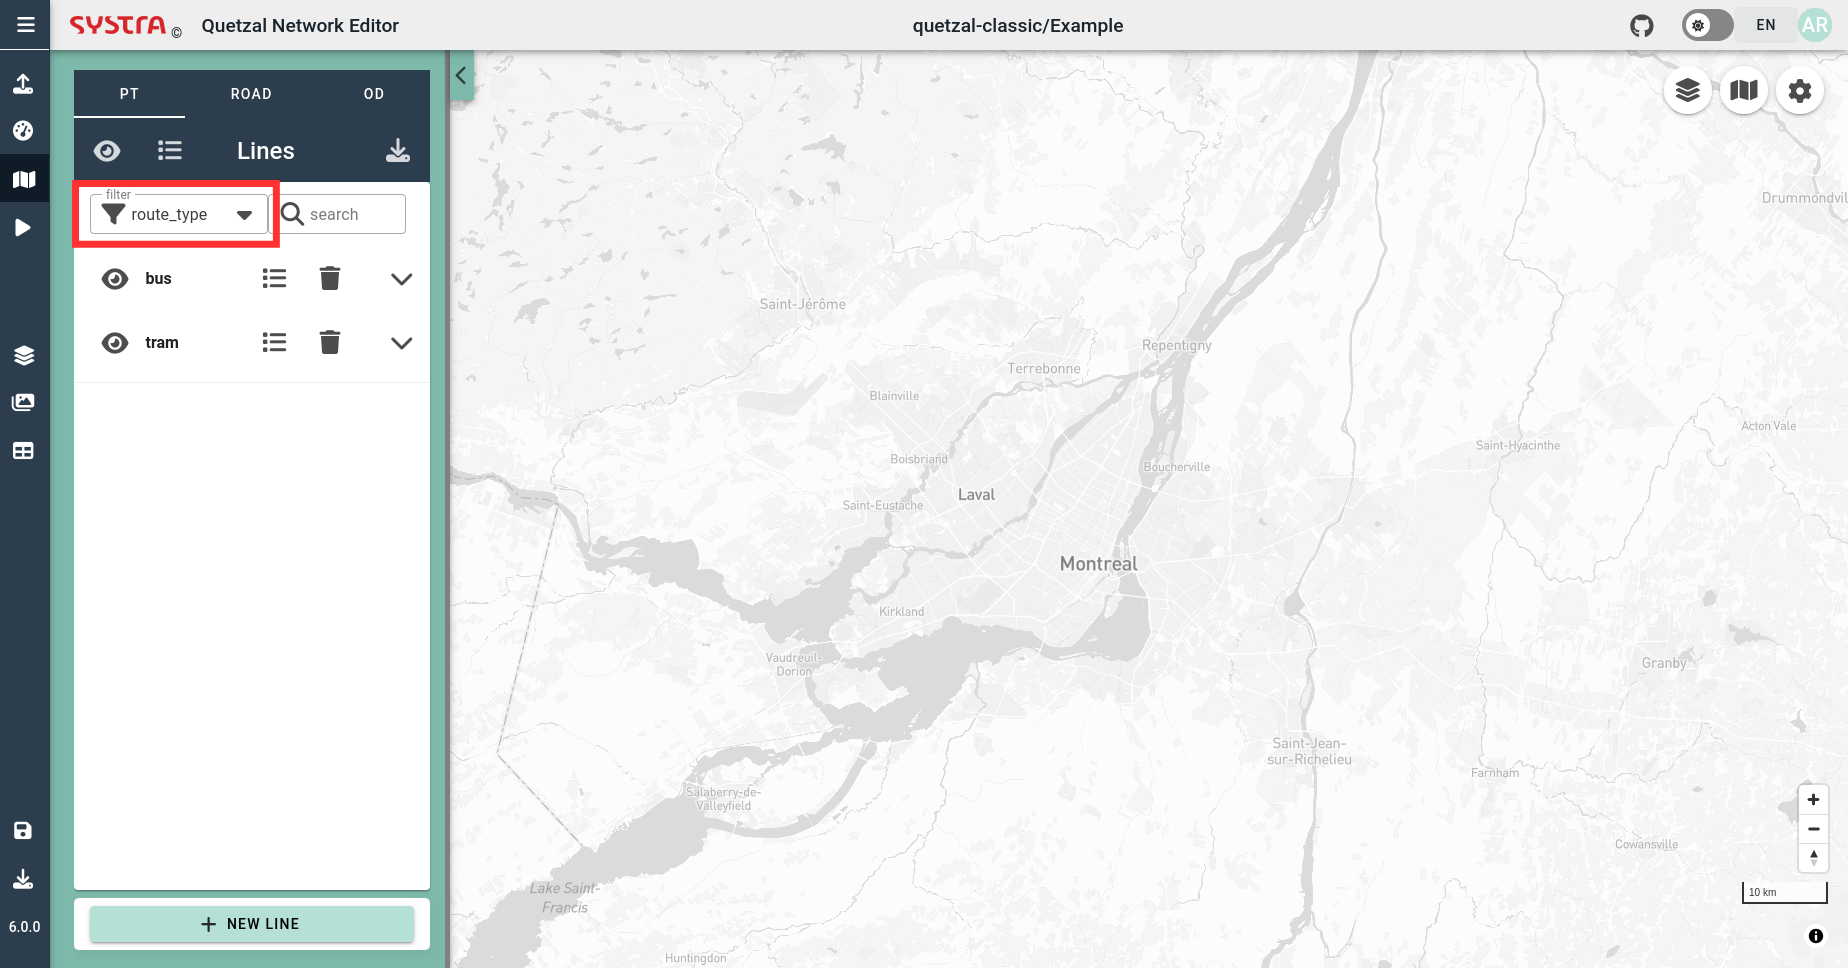
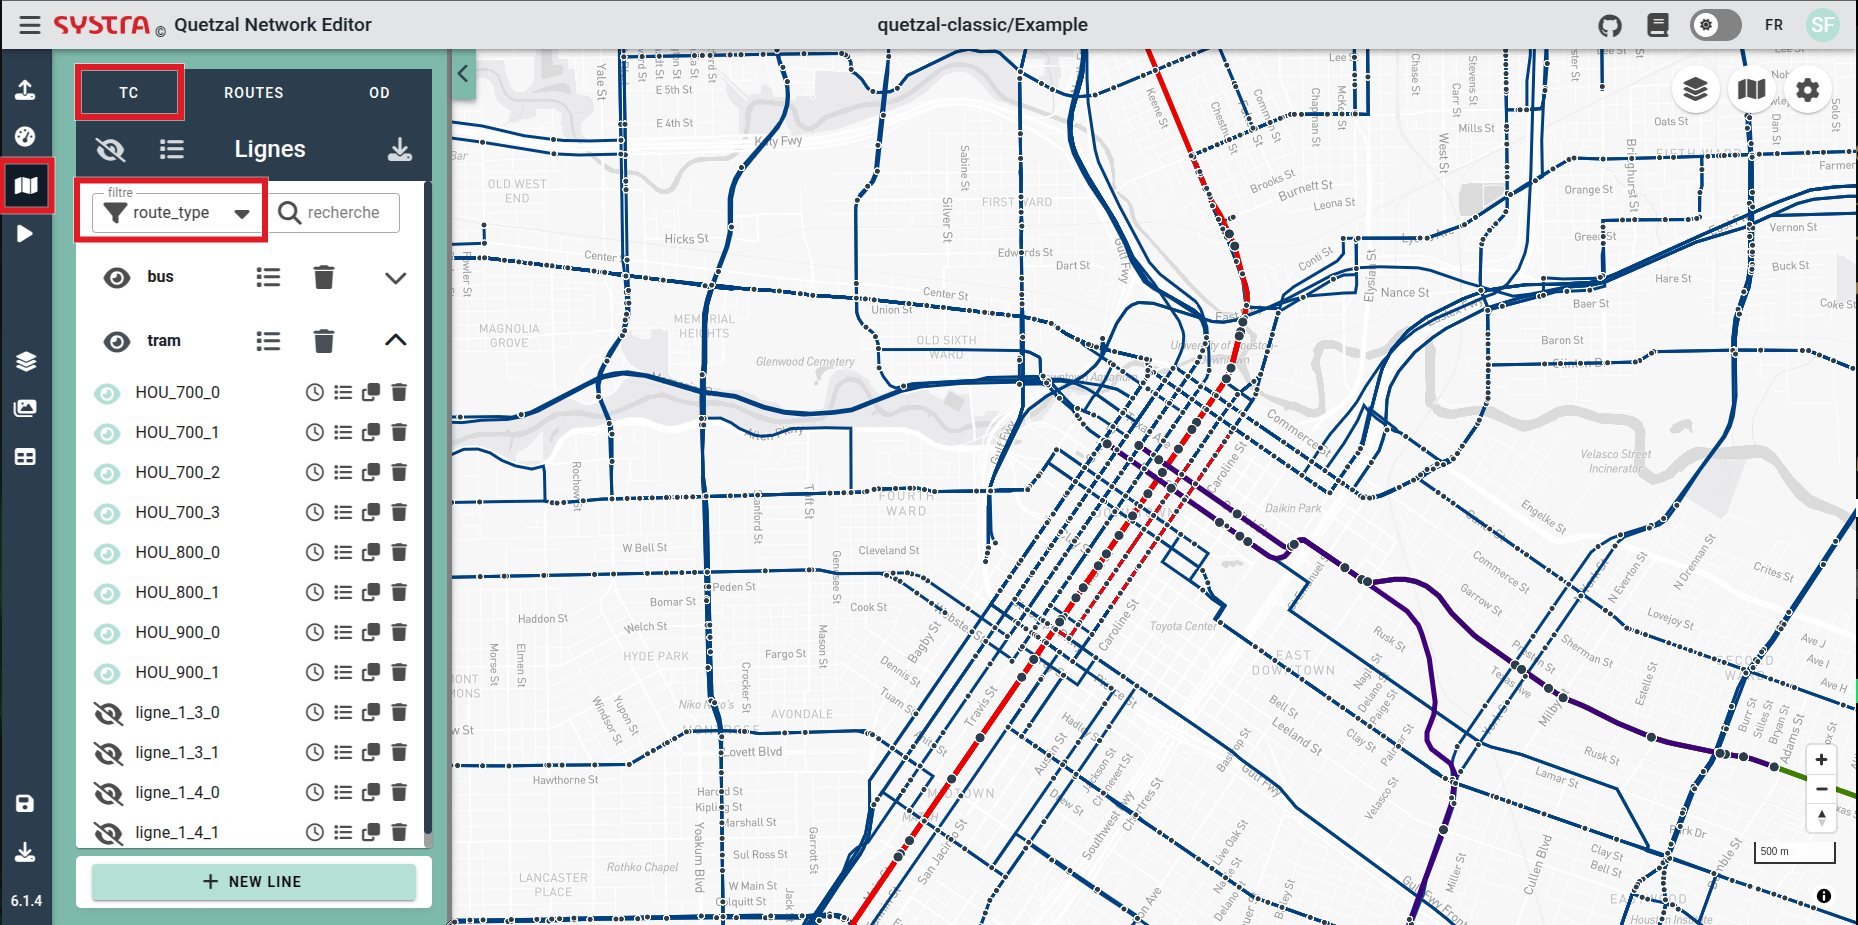
Update Public Transport Page, Add Scheduling

diff --git a/docs/howto/04_pt_network.md b/docs/howto/04_pt_network.md
@@ -1,23 +1,30 @@
-# Public transport network
+# Public Transport Network
 
 ## Overview
-Under the Maps tab, you can:
+
+Under the Map tab, you can view and edit the Public Transport (PT) network:
 
 - Filter by agency_id, route_type, trip_id, etc, ...
 
 ![Alt text](/networks_4.png)
 
-- Duplicate a link 
+::: tip 💡 TIP
+You can use filters to hide/show groups of lines or hide/show individual line.
+:::
+
+Following functionalities are currently available in the Public Transport Editor:
+
 - Create a new line
-- Edit the schedules
-- Edit a line geometry by clicking on the link name
-- Stick nodes on existing nodes
-- Follow roads
+- Duplicate a line (or create a reverse line)
+- Edit the line properties
+- Edit a line geometry
+- Create or edit schedules
 
 ![Alt text](/networks_5.png)
 
-## Add a New Public Transport Line
-In order to add a new trips, go to the *«PT»* tab on the left panel and click on the new **NEW LINE** button. Then, fill in the properties of the new line : you may want to give it a name, a short name and a route type (such as bus or subway). Then, hit the **SAVE** button.
+## Create a New Line
+
+In order to add a new line, click on the new **NEW LINE** button. Then, fill in the properties of the new line. You may want to give it a name, a short name and a route type (such as bus or subway). Then, hit the **SAVE** button.
 
 Once your line is created, click anywhere on the the map to start drawing. Once the line is complete, click on the **CONFIRM** button to save it, you can always edit the properties and the itinerary of your line later.
 
@@ -25,50 +32,85 @@ Once your line is created, click anywhere on the the map to start drawing. Once 
 ![Alt text](/network_editor/new_line_2.png)
 ![Alt text](/network_editor/new_line_3.png)
 
-::: tip :bulb: TIP
+You can add a stop in the middle of a line with a left click on a link. You can also cut the line with a right click on a node > **CUT BEFORE NODE** or **CUT AFTER NODE**. 
+
+![Alt text](/network_editor/cut_line.png)
+
+::: tip 💡 TIP
 Once you have created a trip for one direction, you can duplicate it and reverse it to create the return trip. For bus trips, you may have to adjust a litle bit the return trip to avoid one way roads.
 :::
 
 ![Alt text](/network_editor/duplicate_line.png)
 
-## Edit itinerary of a trip
+## Edit an Existing Line
 
-### Select a trip
+### Select a Line
 
-To edit the itinerary of a trip, find it in the left pannel and click on its name (you can use the filters and the search function to find it, to use the search function, type the first few letters of your trip).
+To edit the itinerary of a line trip, find it in the left pannel and click on its name (you can use the filters and the search function to find it). You can also use the search bar.
 
-Alternatively, you can hover on the map and right click on your trip, a popup will open and you can chose which trip you want to edit.
+Alternatively, you can hover over the map and right-click on your trip. If multiple lines are overlaid, a popup will open, allowing you to choose which trip you want to edit.
 
 ![Alt text](/network_editor/select_trip.png)
 ![Alt text](/network_editor/search_trip.png)
 
-### Options
-By default, the trip is created «as the crow flies», straight lines connect the stations. Othe options are available.
+## Edit Links and Nodes Properties
+While editing a line, you can right click on a link to edit its propoerties. You can also do the same on a node to edit its propoerties. 
+
+## Editor Options
+
+By default, when creating or editing a trip, the geometry is created «as the crow flies», straight lines connect the stations. Following options are also available:
+
 * Edit Line Geometry
 * Stick Nodes on Existing Nodes
 * Follow Roads
-#### Edit Line Geometry
-with this option, you can place «anchors» on your trip in order to define more precisely the geometry of the trip : left click to add an anchor point, right click to delete one. This points are not stops, passengers cannot board nor alight there.
+
+![Alt text](/network_editor/options.png)
+
+### Edit Line Geometry
+
+With this option, you can place «anchors» on your trip in order to define more precisely the geometry of the trip : left click on the line to add an anchor point, drag them wherever you want, right click to delete one. This points are not stops, passengers cannot board nor alight there.
 
 ![Alt text](/network_editor/edit_line_geometry.png)
 
-#### Stick Nodes on Existing Nodes
-When this option is activated, the other public transport stops are displayed. When you edit the itinerary of *your_trip*, you can click on the existing node of *another_trip*, then *your_trip* will also stop at this node.   
+### Stick Nodes on Existing Nodes
+
+With this option, the other public transport stops are displayed. When you edit your trip, you can move a node over an existing node of another trip to re-use that node for your trip. 
 
 ![Alt text](/network_editor/magnet.png)
 
-#### Stick Nodes on Existing Nodes
-when this option is activated, the geometry of your trip will follow the roads for all the new stops you add.
+### Follow Roads
+
+With this option, the geometry of your trip will follow the roads network (if provided) between all the new stops you add.
 
 You can also click on *ALL* or *NONE* to map all your trip to the road network or revert to straight lines (none).
 
 ![Alt text](/network_editor/trip_routing.png)
 
 
-## Edit the properties of a trip
 
-On the left panel, you can filter and search the trips. Then you can duplicate them, edit their properties and edit their timetables.
+## Edit Trip Properties
 
-If you click on **EDIT PROPERTIES**, you will edit the properties of all the links of your trip. It is relevant for the headway for instance or if you want to set a constant speed on all the trip.
+If you click on **EDIT PROPERTIES** in the side panel, you will edit the properties of all the links of your trip (or selected group). It is relevant for the headway for instance or if you want to set a constant speed on all the trip.
 
 ![Alt text](/network_editor/new_line_4.png)
+
+## Create or Edit a Schedule
+
+By default, new lines are frequency-based, defined by the headway in the line properties. You can convert any line to be schedule-based by selecting **CREATE SCHEDULE** in the **EDIT PROPERTIES** form.
+
+![Alt text](/network_editor/create_timetable.png)
+
+When creating a schedule, a single trip is generated with a starting time of **08:00:00**, travel times based on links *time*, and a default dwell time of 0 seconds. From the schedule editor, you can:
+
+- Edit the schedule times (Departures and Arrivals) at each stops
+- Select the station label for the schedule graph
+- Create a new trip
+- Delete a trip
+- Select a trip to edit
+
+![Alt text](/network_editor/schedule_1.png)
+
+When creating a new trip, specify a start time. The travel times from the links and a default dwell time of 0 second will be used to compute the schedule.
+
+![Alt text](/network_editor/schedule_2.png)
+![Alt text](/network_editor/schedule_3.png)
